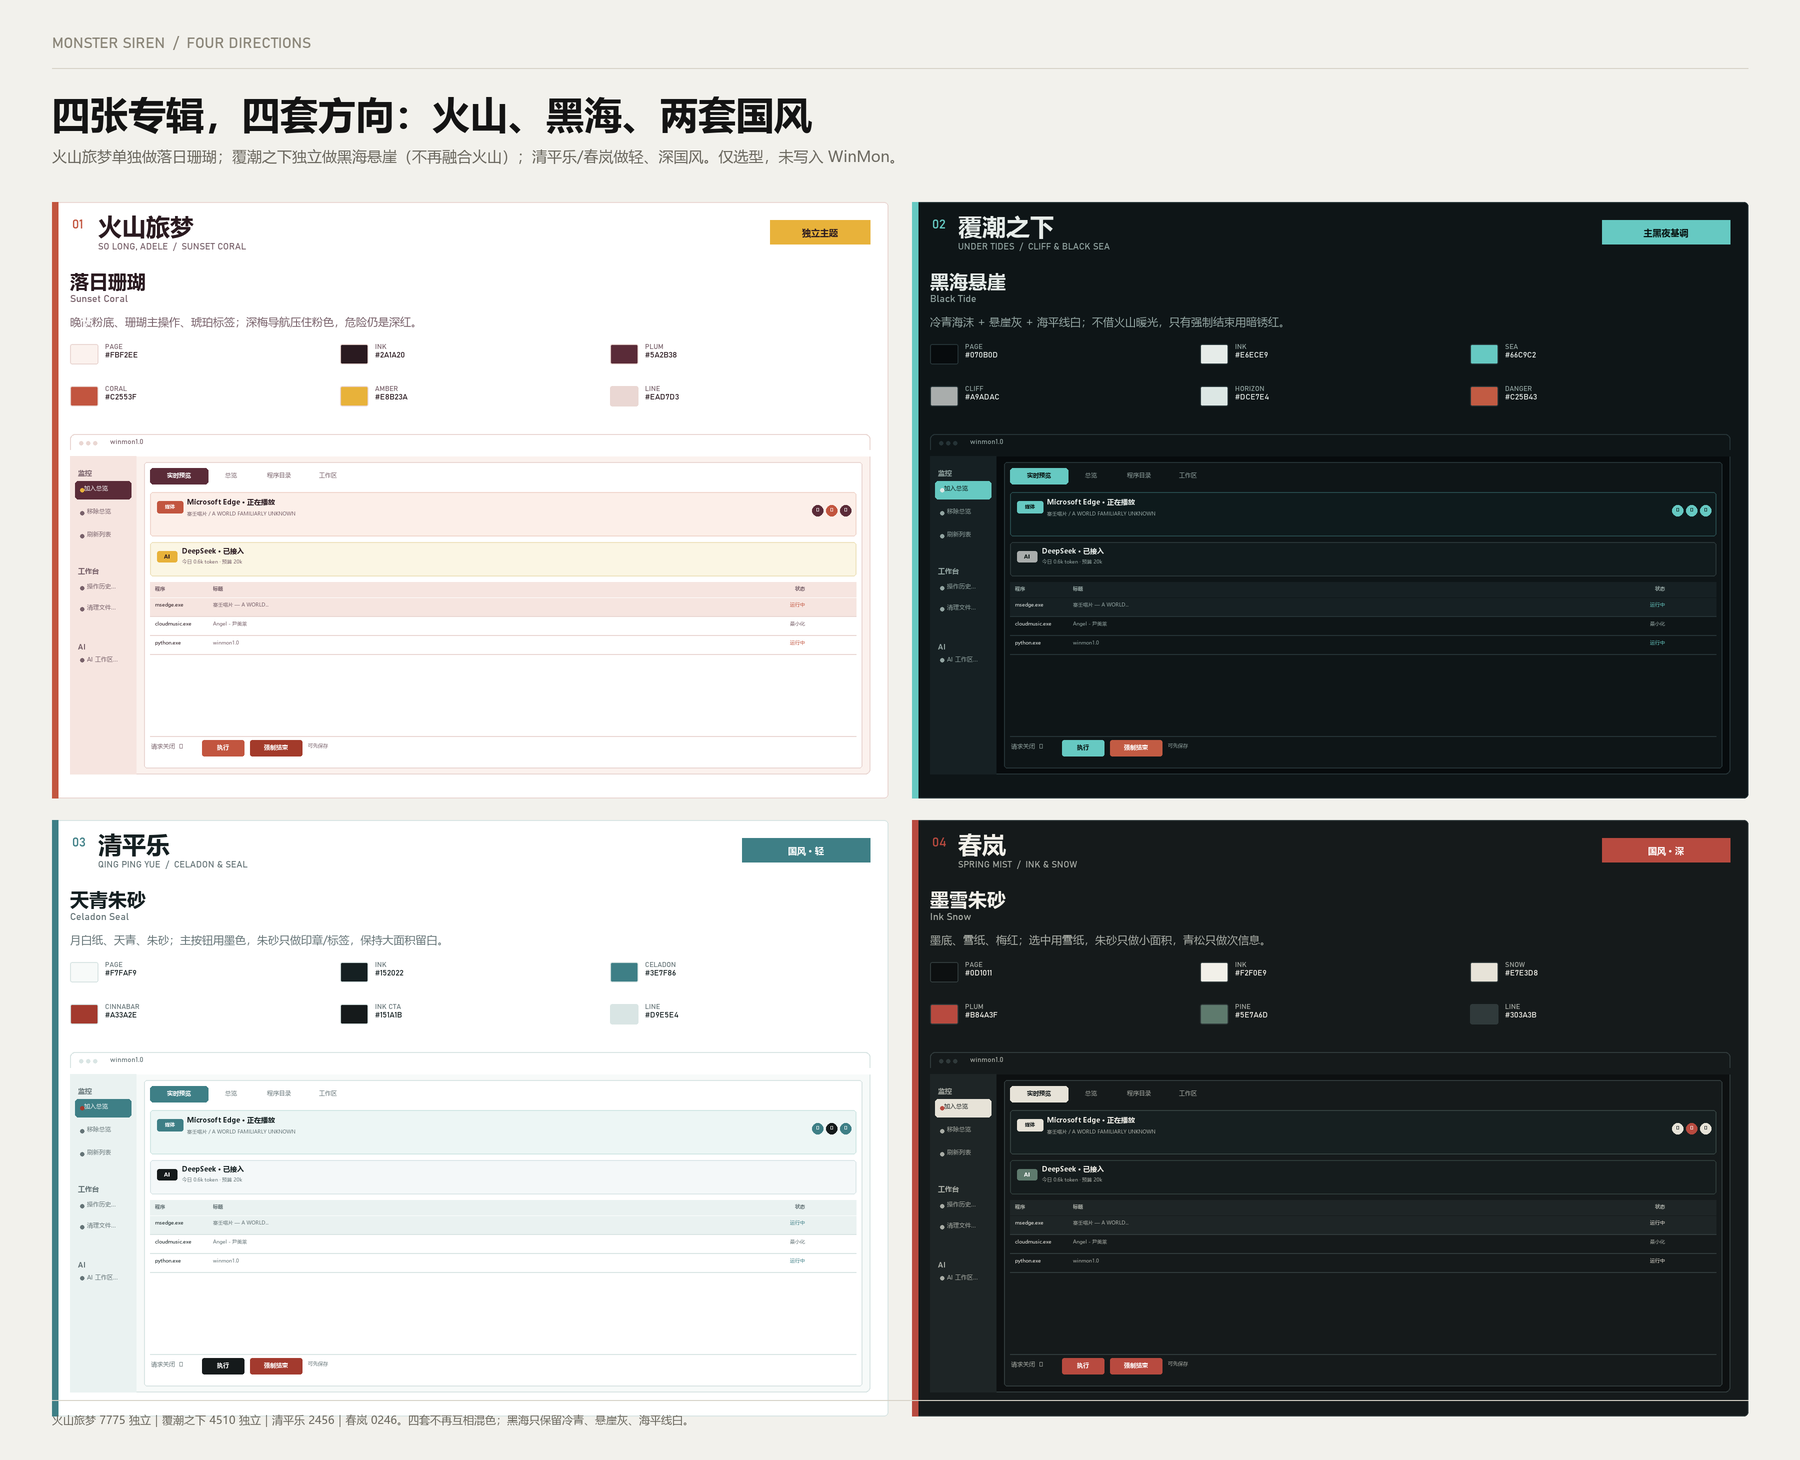
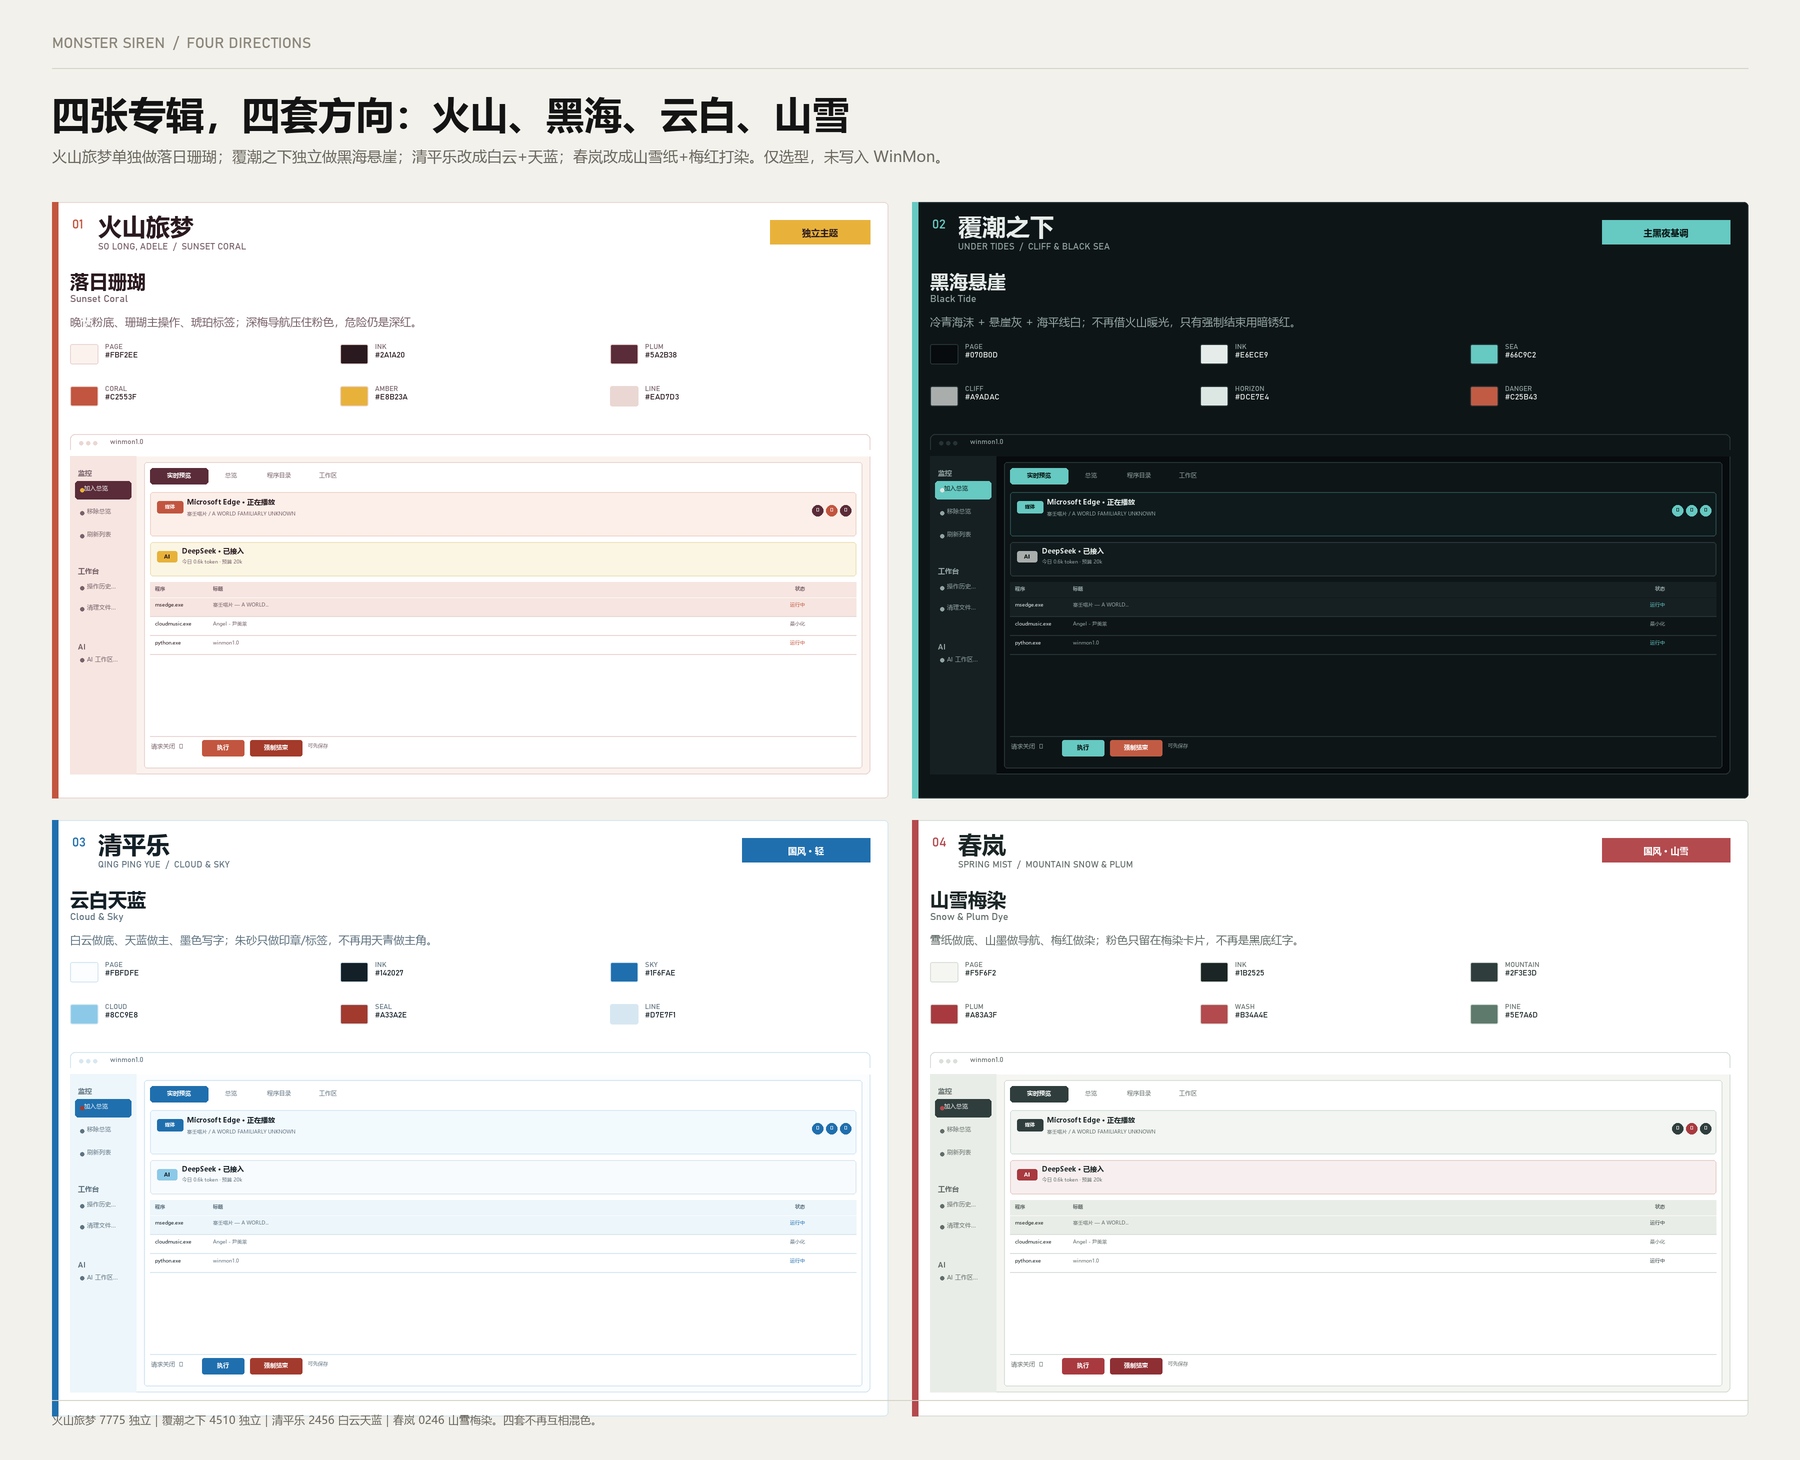
docs：清平乐改白云天蓝，春岚改山雪梅染

diff --git a/README.md b/README.md
@@ -1224,24 +1224,24 @@ AI 工作区 →「打开助手…」打开窗口（或 `--ai-assist`）。**助
 
 ### 火山旅梦 / 覆潮之下 / 清平乐 / 春岚：四套独立方向（待决议）
 
-四张专辑分别出四套，不再互相混色：**火山旅梦单独做落日珊瑚**；**覆潮之下做冷黑海**；清平乐、春岚做轻/深两种国风。
+四张专辑分别出四套，不再互相混色：**火山旅梦单独做落日珊瑚**；**覆潮之下做冷黑海**；清平乐改成**白云 + 天蓝**；春岚改成**山雪纸 + 梅红打染**。
 
 | 方案 | 参考 | 页面 | 主色 / 导航 | 主操作 | 信号色 | 次色 |
 | --- | --- | --- | --- | --- | --- | --- |
 | **落日珊瑚** | 火山旅梦 | `#FBF2EE` | `#5A2B38` 深梅 | `#C2553F` 珊瑚白字 | `#E8B23A` 琥珀 | `#8E5566` 藕紫 |
 | **黑海悬崖** | 覆潮之下 | `#070B0D` | `#66C9C2` 海沫 | `#66C9C2` 深字 | `#DCE7E4` 海平线白 | `#A9ADAC` 悬崖灰 |
-| **天青朱砂** | 清平乐 | `#F7FAF9` | `#3E7F86` 天青 | `#151A1B` 墨色白字 | `#A33A2E` 朱砂 | `#3E7F86` 天青 |
-| **墨雪朱砂** | 春岚 | `#0D1011` | `#E7E3D8` 雪纸墨字 | `#B84A3F` 梅红白字 | `#B84A3F` 梅红 | `#5E7A6D` 松烟 |
+| **云白天蓝**（原天青朱砂） | 清平乐 | `#FBFDFE` | `#1F6FAE` 天蓝 | `#1F6FAE` 白字 | `#A33A2E` 朱砂 | `#8CC9E8` 云蓝 |
+| **山雪梅染**（原墨雪朱砂） | 春岚 | `#F5F6F2` | `#2F3E3D` 山墨 | `#A83A3F` 梅红白字 | `#B34A4E` 梅染 | `#5E7A6D` 松烟 |
 
 - 火山旅梦：晚霞粉底、深梅导航、珊瑚主操作、琥珀标签，危险仍是深红；粉色不铺满；
 - 黑海悬崖：只保留冷青海沫、悬崖灰、海平线白，**不再借火山旅梦的暖光**；暗锈红只给“强制结束”；
-- 天青朱砂：月白纸、天青导航、墨色主按钮、朱砂只做印章/标签；
-- 墨雪朱砂：墨底、雪纸选中、梅红小面积、青松次信息；
+- 云白天蓝：白云/月白做底，天蓝 `#1F6FAE` 做导航和主按钮，墨色写字，朱砂只做印章/标签；
+- 山雪梅染：雪纸做底、山墨做导航、梅红做染，梅染卡片用 `#F7EFEF` 一类淡染，不再是黑底红字；
 - 四套的正文/页面、白字/主色、信号色/底色都过 WCAG AA（4.5:1 以上）。
 
 > 国风不只靠颜色：落地时建议标题用宋体/思源宋体，正文仍用无衬线；朱砂/梅红只做印章、标签和选中点，不要大面积铺成红色界面。
 
-![四张专辑，四套方向：火山、黑海、两套国风](docs/siren-four-directions.png)
+![四张专辑，四套方向：火山、黑海、云白、山雪](docs/siren-four-directions.png)
 
 ### 字体与圆角
 
